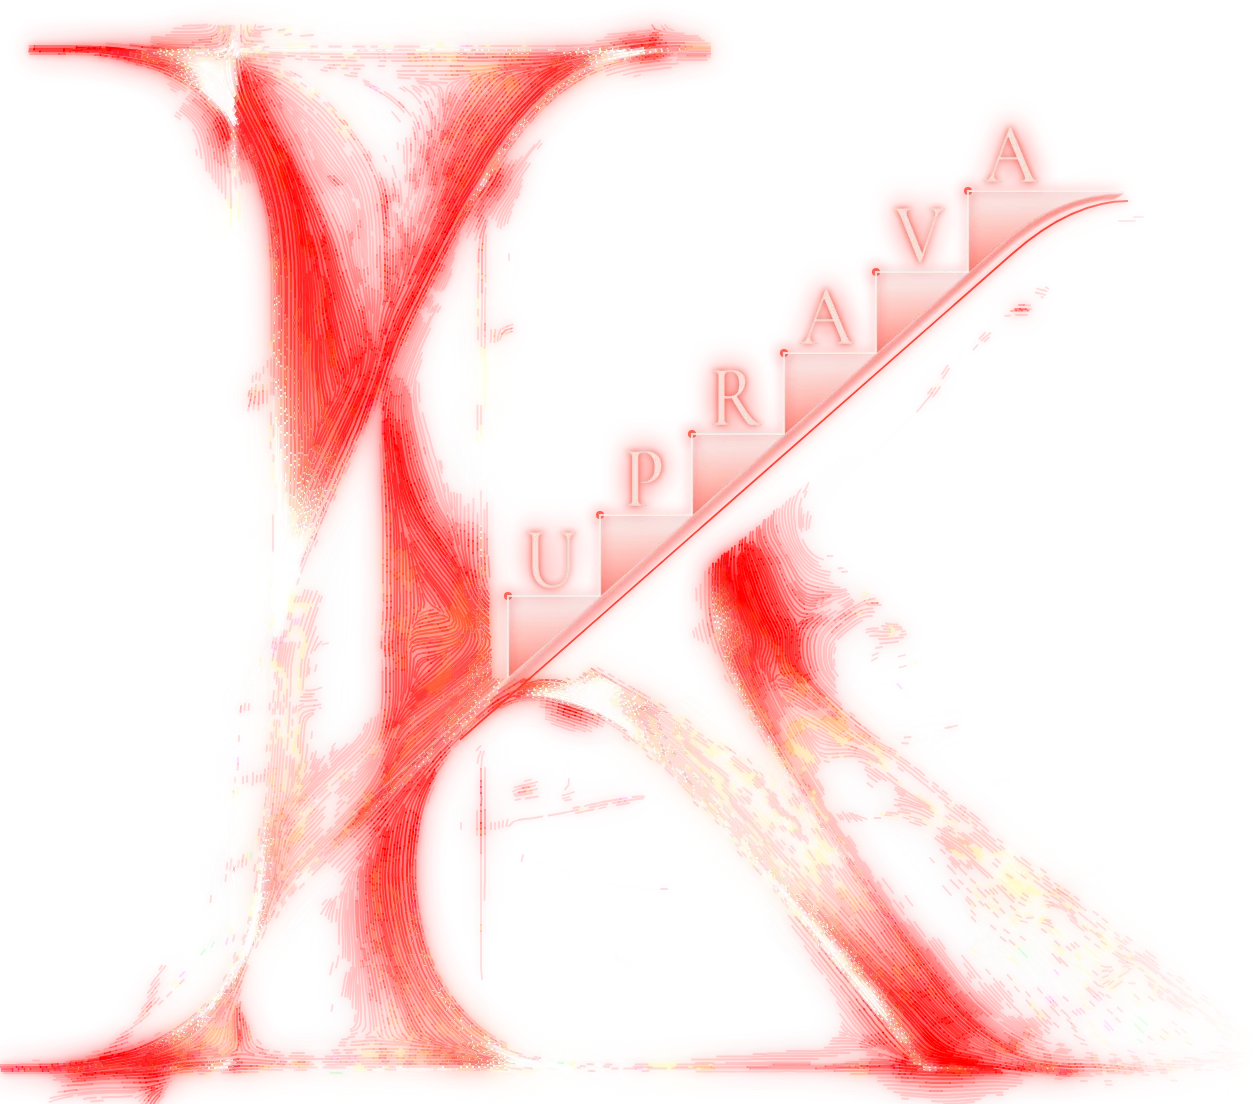
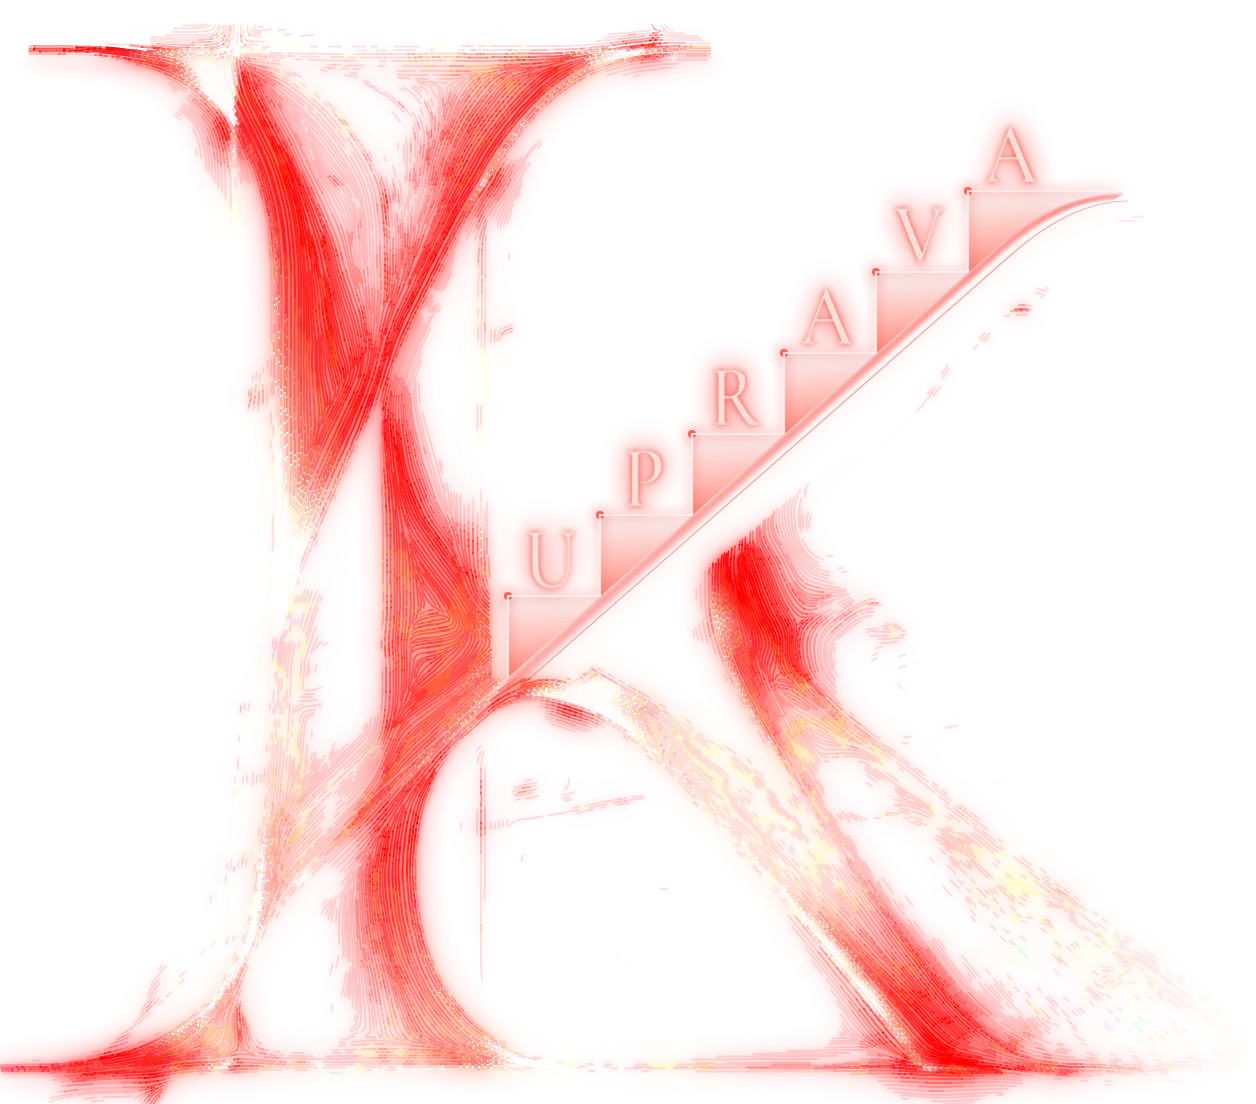
Make the cap line and the line under the stairs thin, as in the reference
Measured against the reference: its cap line is a crisp ~2 px line with
no halo, and the line under the stairs is faint. The cap line drops its
glow, the K's glow layer no longer spills above the cap line, the old
construction line that doubled it is cut back to the left of the K, and
the line under the stairs is thinner and fainter. K images regenerated.

Claude-Session: https://claude.ai/code/session_01Gk3TK8zn3Nf2aeoCujnWzf

diff --git a/src/style.css b/src/style.css
@@ -141,15 +141,17 @@ body[data-lang='ge'] .sec-title, body[data-lang='jp'] .sec-title { font-size: cl
 /* the K: threads traced from the reference (k-threads.js), with a glow made from themselves */
 .k-layer { position: absolute; inset: 0; pointer-events: none; opacity: 0; clip-path: inset(100% 0 0 0); }
 .k-layer canvas { position: absolute; inset: 0; width: 100%; height: 100%; }
+/* nothing of the K is above its cap line (y 185 of 941), so its glow mustn't spill above it either */
+.k-layer .k-glow { -webkit-mask-image: linear-gradient(to bottom, transparent 19.7%, #000 20.6%); mask-image: linear-gradient(to bottom, transparent 19.7%, #000 20.6%); }
 .k-glow { filter: blur(calc(var(--u) * 2)); opacity: 0.85; }
 .k-glow-wide { filter: blur(calc(var(--u) * 7)) saturate(1.6); opacity: 0.9; }
 .ready .k-layer { animation: kDraw 2.8s cubic-bezier(0.6, 0.05, 0.3, 1) 0.4s forwards; }
 @keyframes kDraw { 30% { opacity: 1; } to { opacity: 1; clip-path: inset(0 0 0 0); } }
 .arm path { stroke-width: 0.8; vector-effect: non-scaling-stroke; }
-.arm-line { fill: none; stroke: rgba(255, 46, 32, 0.85); stroke-width: 0.9; vector-effect: non-scaling-stroke; filter: drop-shadow(0 0 2px rgba(255, 30, 20, 0.9)); opacity: 0; }
+.arm-line { fill: none; stroke: rgba(255, 46, 32, 0.45); stroke-width: 0.6; vector-effect: non-scaling-stroke; opacity: 0; }
 .arm-tail { fill: none; stroke: rgba(255, 236, 232, 0.45); stroke-width: 0.8; vector-effect: non-scaling-stroke; opacity: 0; }
 .ready .arm-line, .ready .arm-tail { animation: fadeIn 1.4s 2s forwards; }
-.construct line.cap-line { stroke: url(#capFade); stroke-width: 1.3; filter: drop-shadow(0 0 2px rgba(255, 255, 255, 0.8)) drop-shadow(0 0 6px rgba(255, 60, 50, 0.5)); }
+.construct line.cap-line { stroke: url(#capFade); stroke-width: 1; } /* crisp, no halo, like the reference */
 .arm, .arm-glow { opacity: 0; }
 .arm-glow { filter: blur(calc(var(--u) * 7)) brightness(1.4) saturate(1.3); }
 .ready .arm { animation: fadeIn 1.2s 1.4s forwards; }

diff --git a/src/hero.js b/src/hero.js
@@ -270,7 +270,7 @@ export function buildHero({ svg, nodesBox, onNavigate, onHover, labels }) {
   });
 
   const cons = el('g', { class: 'construct' }, svg);
-  [[669, 58, 669, 700], [405, 185, 885, 185], [560, 693, 1080, 693], [793, 252, 793, 697]].forEach(([a, b, c, d]) => {
+  [[669, 58, 669, 700], [405, 185, 520, 185], [560, 693, 1080, 693], [793, 252, 793, 697]].forEach(([a, b, c, d]) => {
     el('line', { x1: a, y1: b, x2: c, y2: d, pathLength: 1000 }, cons);
   });
   // the K's cap line: bright white across the serifs, fading out at both ends, as in the reference
